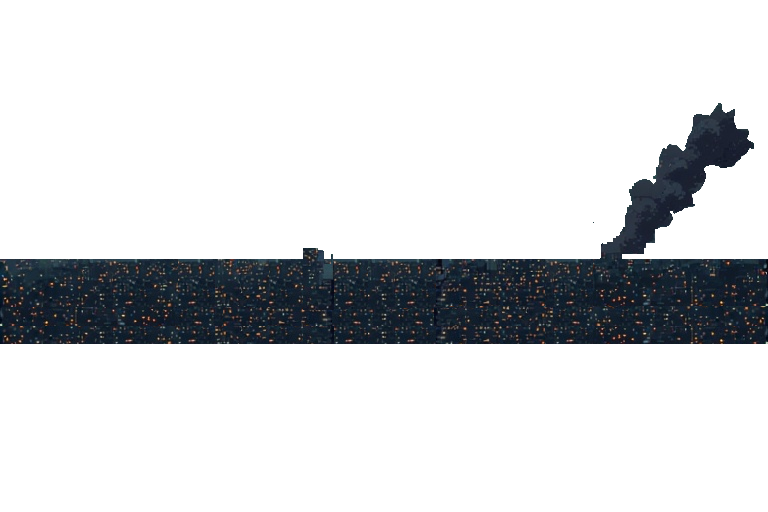
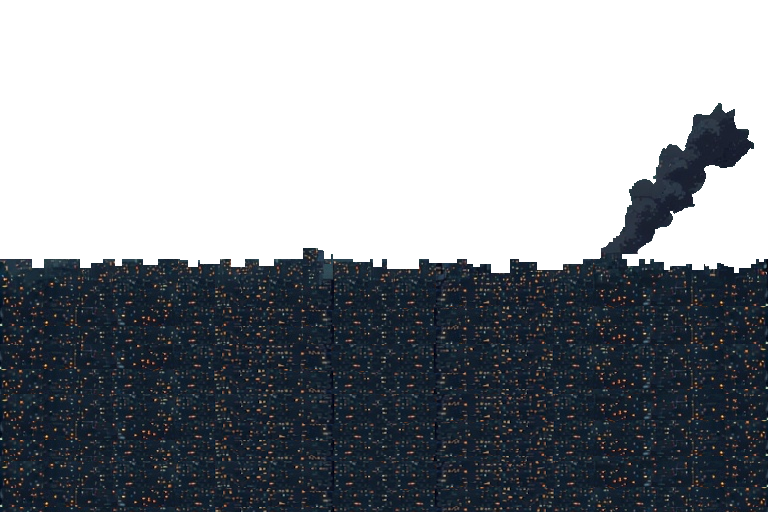
The background layer(s) now work as intended.

diff --git a/src/ts/objects/parallaxBackgroundManager.ts b/src/ts/objects/parallaxBackgroundManager.ts
@@ -1,59 +1,169 @@
 import { Actor, Engine, Vector, Scene, Camera, ImageSource } from "excalibur";
 import { Resources } from "../resources";
 
-interface ParallaxLayerConfig {
-    image: ImageSource;
-    speed: number;
-    z: number;
-}
-
 export class ParallaxBackgroundManager {
     private layers: { actor: Actor; speed: number }[] = [];
     private camera: Camera;
     private engine: Engine;
 
+    // A special bottom fill layer to extend the background vertically downward
+    private bottomFill: Actor;
+    private bottomFillSpeed = 0.125;
+    private bottomFillZ = -1.5;
+    private bottomFillMinY = -1112;
+
     constructor(scene: Scene, camera: Camera, engine: Engine) {
         this.camera = camera;
         this.engine = engine;
 
-        // Voeg lagen toe van achter naar voor
-        this.addLayer(Resources.BackgroundSky, 0.0025, -5);
-        this.addLayer(Resources.BackgroundBack, 0.0125, -4);
-        this.addLayer(Resources.BackgroundThird, 0.025, -3);
-        this.addLayer(Resources.BackgroundSecond, 0.0625, -2);
-        this.addLayer(Resources.BackgroundFront, 0.125, -1);
+        // Add all parallax layers, from farthest back (sky) to nearest front
+        // order = file name -> scroll speed -> z-axis -> mirrored
+        this.addLayer(Resources.BackgroundSky, 0.0025, -5, true);
+        this.addLayer(Resources.BackgroundBack, 0.0125, -4, false);
+        this.addLayer(Resources.BackgroundThird, 0.025, -3, false);
+        this.addLayer(Resources.BackgroundSecond, 0.0625, -2, false);
+        this.addLayer(Resources.BackgroundFront, 0.125, -1, false);
 
+        // Add all regular layers to the scene
         for (const { actor } of this.layers) {
             scene.add(actor);
         }
+
+        // Add bottom fill as a horizontally repeated layer, but not part of this.layers
+        this.bottomFill = this.addRepeatedLayer(Resources.BackgroundBottomFill, this.bottomFillZ);
+        scene.add(this.bottomFill);
     }
 
-    private addLayer(image: ImageSource, speed: number, z: number) {
-        const actor = new Actor({
+    /**
+     * Adds a new parallax background layer that is repeated horizontally or vertically.
+     * Layers are stored internally and automatically updated.
+     */
+    private addLayer(
+        image: ImageSource,
+        speed: number,
+        z: number,
+        mirrorOdd = false, // doesn't need to exist anymore since the sky is a static image but i'm to lazy to change the code to remove it
+        verticalRepeat = false
+    ) {
+        const layerContainer = new Actor({
             pos: Vector.Zero,
+            z,
             width: this.engine.drawWidth,
             height: this.engine.drawHeight,
-            z,
-            anchor: Vector.Half, // Midden als referentiepunt (werkt niet)
+            anchor: Vector.Half,
         });
-        actor.graphics.use(image.toSprite());
-        this.layers.push({ actor, speed });
+
+        const sprite = image.toSprite();
+        const imageWidth = sprite.width;
+        const imageHeight = sprite.height;
+
+        // Determine how many times to repeat the sprite
+        const repeatCount = verticalRepeat
+            ? Math.ceil(this.engine.drawHeight / imageHeight) + 2 // number can be increased or decreased, depends on how big the levels will turn out.
+            : Math.ceil(this.engine.drawWidth / imageWidth) + 2;
+
+        for (let i = 0; i < repeatCount; i++) {
+            const isMirrored = mirrorOdd && i % 2 === 1; // even repeated backgrounds get mirrored, was intended for the sky so it currently has no use.
+
+            const pos = verticalRepeat // for the bottomFill layer.
+                ? new Vector(0, i * imageHeight)
+                : new Vector(i * imageWidth, 0);
+
+            const part = new Actor({
+                pos,
+                width: imageWidth,
+                height: imageHeight,
+                anchor: isMirrored ? Vector.Right : Vector.Zero,
+            });
+
+            part.graphics.use(sprite);
+
+            // Mirror horizontally if needed (e.g. for a sky gradient that tiles smoothly) (has no actual use)
+            if (isMirrored) {
+                part.scale = new Vector(-1, 1);
+            }
+
+            layerContainer.addChild(part);
+        }
+
+        // Store the layer for future updates
+        this.layers.push({ actor: layerContainer, speed });
     }
 
+    /**
+     * Adds a horizontally repeated background layer without parallax speed tracking.
+     * This is only used for the bottomFill layer, which is updated separately.
+     */
+    private addRepeatedLayer(image: ImageSource, z: number): Actor {
+        const container = new Actor({
+            pos: Vector.Zero,
+            z,
+            width: this.engine.drawWidth,
+            height: this.engine.drawHeight,
+            anchor: Vector.Half,
+        });
+
+        const sprite = image.toSprite();
+        const imageWidth = sprite.width;
+
+        const repeatCount = Math.ceil(this.engine.drawWidth / imageWidth) + 2;
+
+        for (let i = 0; i < repeatCount; i++) {
+            const part = new Actor({
+                pos: new Vector(i * imageWidth, 0),
+                width: imageWidth,
+                height: sprite.height,
+                anchor: Vector.Zero,
+            });
+            part.graphics.use(sprite);
+            container.addChild(part);
+        }
+
+        return container;
+    }
+
+
+    /**
+     * Updates the position of all parallax layers based on camera movement,
+     * including special logic for the bottom fill layer.
+     */
     update() {
         const cam = this.camera;
         const screenCenter = new Vector(this.engine.drawWidth / 2, this.engine.drawHeight / 2);
 
+        const defaultOffset = new Vector(-1200, -600);
+
+        // Update all standard parallax layers
         for (const { actor, speed } of this.layers) {
-            const offset = new Vector(-400, -300);
-            const parallaxX = cam.pos.x * (1 - speed) + offset.x;
-            const parallaxY = cam.pos.y * (0.9 - speed) + offset.y;
+            const parallaxX = cam.pos.x * (1 - speed) + defaultOffset.x;
+
+            let posY: number;
+            if (speed === 0.0025) {
+                // Sky layer follows camera Y exactly (hence why the mirroring thing has no use)
+                posY = screenCenter.y + cam.pos.y + defaultOffset.y;
+            } else {
+                // Other layers use a reduced Y parallax to create depth
+                posY = screenCenter.y + cam.pos.y * (0.9 - speed) + defaultOffset.y;
+            }
 
             actor.scale = Vector.One;
-            actor.pos = new Vector(
-                screenCenter.x + parallaxX,
-                screenCenter.y + parallaxY,
-            );
+            actor.pos = new Vector(screenCenter.x + parallaxX, posY);
         }
+
+        // --- Special update logic for the bottom fill layer ---
+        const speed = this.bottomFillSpeed;
+        const offset = new Vector(-1200, -88); // Custom offset for bottomFill
+        const parallaxX = cam.pos.x * (1 - speed) + offset.x;
+
+        // Compute intended Y position based on parallax
+        let desiredY = screenCenter.y + cam.pos.y * (0.9 - speed) + offset.y;
+
+        // Prevent the bottom fill from moving above the min Y limit
+        if (desiredY < this.bottomFillMinY) {
+            desiredY = this.bottomFillMinY;
+        }
+
+        this.bottomFill.scale = Vector.One;
+        this.bottomFill.pos = new Vector(screenCenter.x + parallaxX, desiredY);
     }
 }

diff --git a/src/ts/resources.ts b/src/ts/resources.ts
@@ -25,6 +25,8 @@ const Resources = {
   BackgroundThird: new ImageSource("images/backgrounds/background-third-layer.png"),
   BackgroundBack: new ImageSource("images/backgrounds/background-back-layer.png"),
   BackgroundSky: new ImageSource("images/backgrounds/background-sky.png"),
+  BackgroundBottomFill: new ImageSource("images/backgrounds/background-bottom-fill.png"),
+
 };
 
 const ResourceLoader = new Loader();
